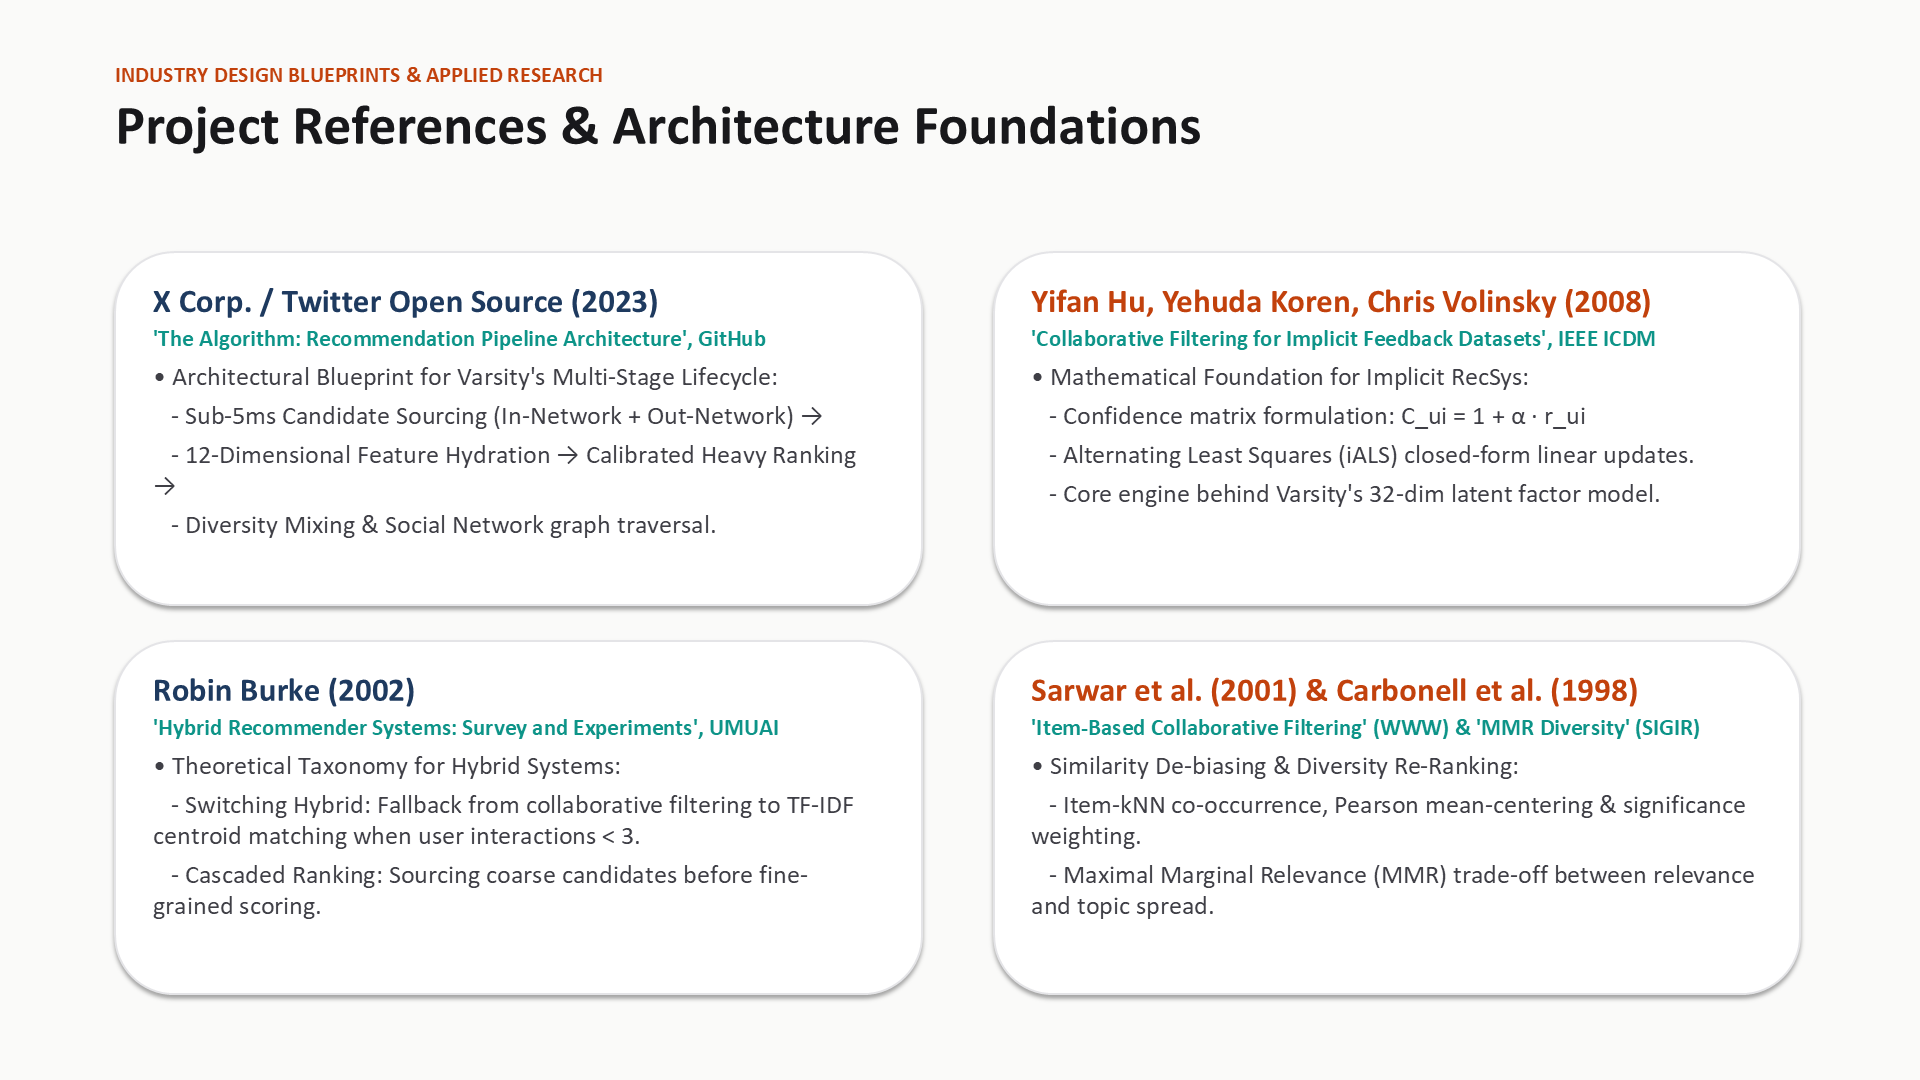
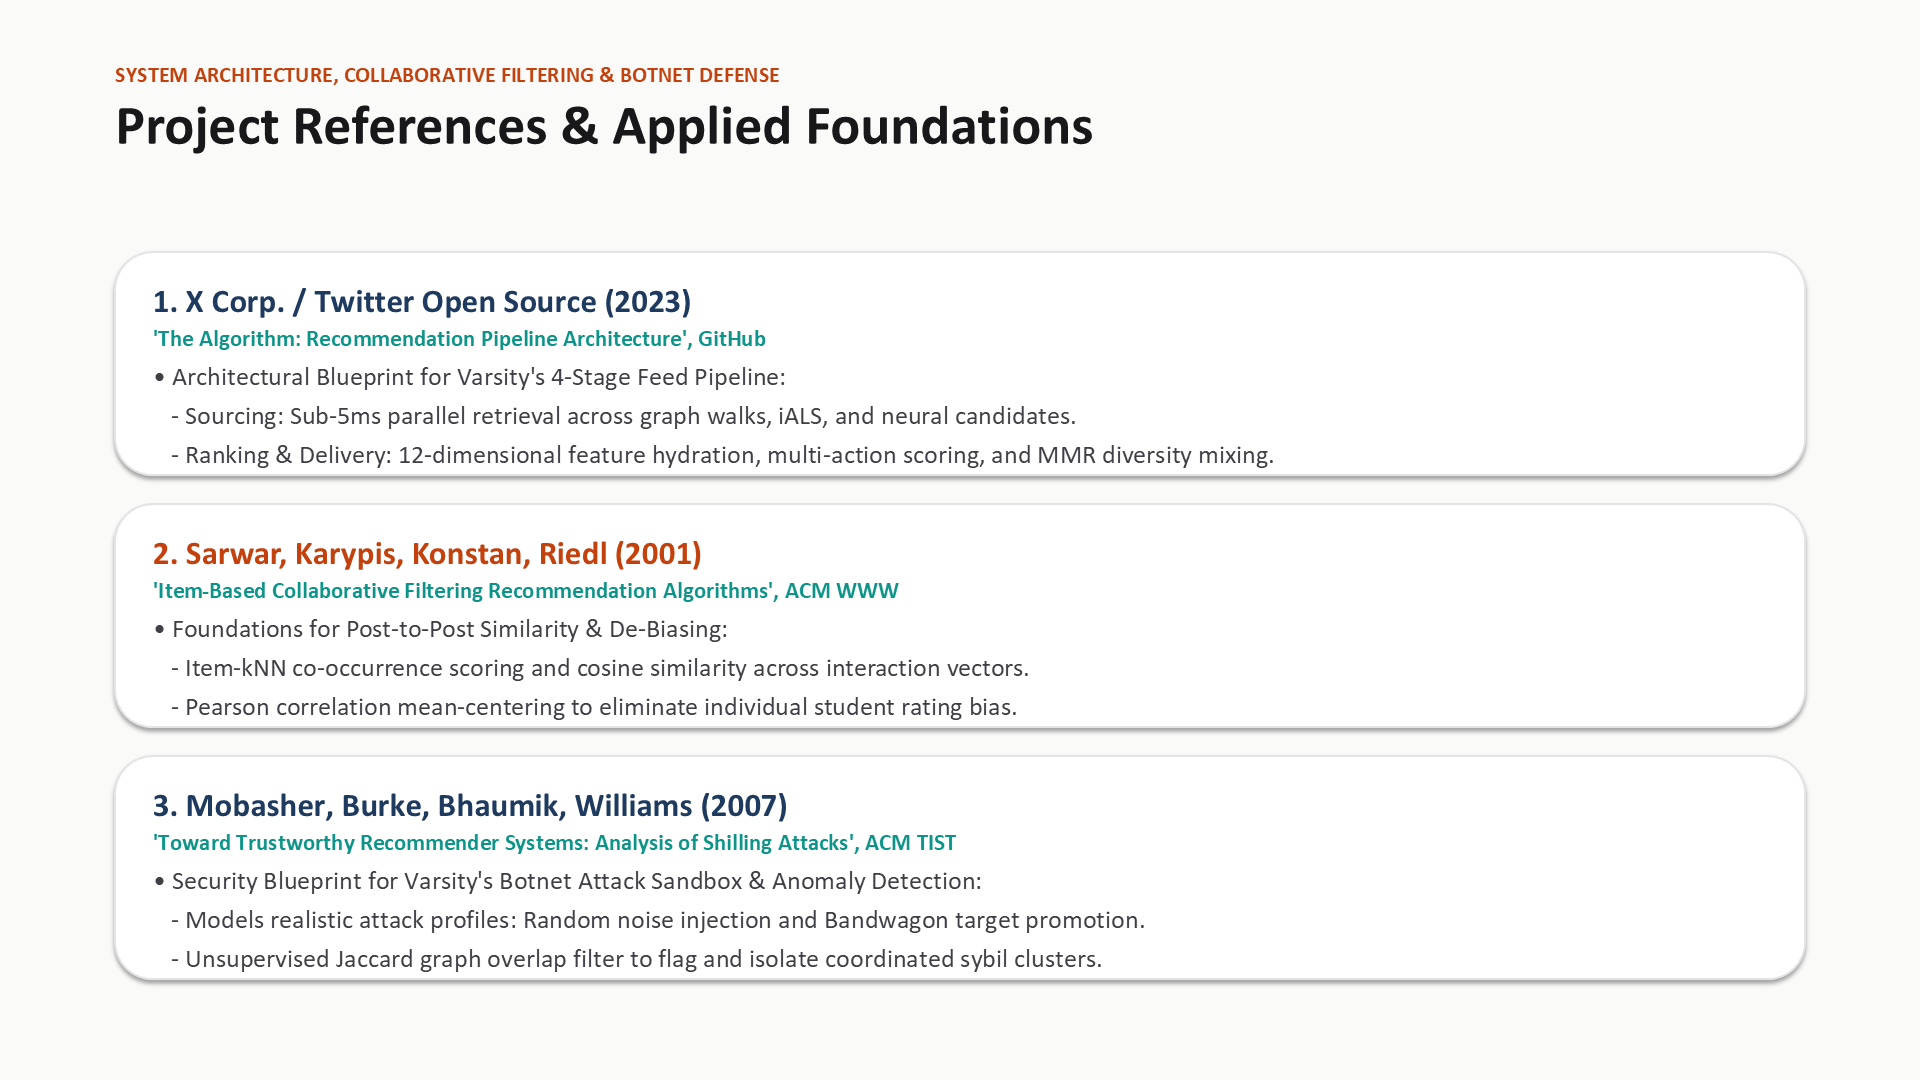
refactor: streamline Slide 10 to strictly feature the 3 applied Column 2 references

diff --git a/build_presentation_revamped.py b/build_presentation_revamped.py
@@ -800,66 +800,49 @@ add_mockup_panel(s9, "benchmark_table.png", Inches(7.0), Inches(1.75), Inches(5.
 
 
 # ==============================================================================
-# SLIDE 10: PROJECT REFERENCES & RESEARCH FOUNDATIONS (Formerly Slide 11)
-# (Kept only project-relevant literature with clean, large cards - NO textbook clutter!)
+# SLIDE 10: PROJECT REFERENCES & RESEARCH FOUNDATIONS
+# (Strictly the 3 applied architecture & security references from Column 2)
 # ==============================================================================
 s10 = prs.slides.add_slide(blank_layout)
 add_slide_background(s10)
-add_header(s10, "Project References & Architecture Foundations", "INDUSTRY DESIGN BLUEPRINTS & APPLIED RESEARCH")
+add_header(s10, "Project References & Applied Foundations", "SYSTEM ARCHITECTURE, COLLABORATIVE FILTERING & BOTNET DEFENSE")
 
-# 4 Clean, Elegant Reference Cards (2x2 Grid with generous spacing and large text)
-grid_w = Inches(5.6)
-grid_h = Inches(2.45)
-row1_y = Inches(1.75)
-row2_y = Inches(4.45)
-col1_x = Inches(0.8)
-col2_x = Inches(6.9)
+card_w = Inches(11.733)
+card_h = Inches(1.55)
+col_x = Inches(0.8)
 
 # Ref 1: X Corp. Algorithm
-add_card(s10, col1_x, row1_y, grid_w, grid_h,
-         title="X Corp. / Twitter Open Source (2023)",
+add_card(s10, col_x, Inches(1.75), card_w, card_h,
+         title="1. X Corp. / Twitter Open Source (2023)",
          subtitle="'The Algorithm: Recommendation Pipeline Architecture', GitHub",
          body_points=[
-             "• Architectural Blueprint for Varsity's Multi-Stage Lifecycle:",
-             "   - Sub-5ms Candidate Sourcing (In-Network + Out-Network) →",
-             "   - 12-Dimensional Feature Hydration → Calibrated Heavy Ranking →",
-             "   - Diversity Mixing & Social Network graph traversal."
+             "• Architectural Blueprint for Varsity's 4-Stage Feed Pipeline:",
+             "   - Sourcing: Sub-5ms parallel retrieval across graph walks, iALS, and neural candidates.",
+             "   - Ranking & Delivery: 12-dimensional feature hydration, multi-action scoring, and MMR diversity mixing."
          ],
          title_size=16.5, body_size=13, title_color=ACCENT_PRIMARY)
 
-# Ref 2: Hu, Koren, Volinsky (iALS)
-add_card(s10, col2_x, row1_y, grid_w, grid_h,
-         title="Yifan Hu, Yehuda Koren, Chris Volinsky (2008)",
-         subtitle="'Collaborative Filtering for Implicit Feedback Datasets', IEEE ICDM",
+# Ref 2: Sarwar et al. (Item-Based CF)
+add_card(s10, col_x, Inches(3.50), card_w, card_h,
+         title="2. Sarwar, Karypis, Konstan, Riedl (2001)",
+         subtitle="'Item-Based Collaborative Filtering Recommendation Algorithms', ACM WWW",
          body_points=[
-             "• Mathematical Foundation for Implicit RecSys:",
-             "   - Confidence matrix formulation: C_ui = 1 + α · r_ui",
-             "   - Alternating Least Squares (iALS) closed-form linear updates.",
-             "   - Core engine behind Varsity's 32-dim latent factor model."
+             "• Foundations for Post-to-Post Similarity & De-Biasing:",
+             "   - Item-kNN co-occurrence scoring and cosine similarity across interaction vectors.",
+             "   - Pearson correlation mean-centering to eliminate individual student rating bias."
          ],
          title_size=16.5, body_size=13, title_color=ACCENT_WARM)
 
-# Ref 3: Robin Burke (Hybrid Systems)
-add_card(s10, col1_x, row2_y, grid_w, grid_h,
-         title="Robin Burke (2002)",
-         subtitle="'Hybrid Recommender Systems: Survey and Experiments', UMUAI",
+# Ref 3: Mobasher et al. (Shilling Attacks)
+add_card(s10, col_x, Inches(5.25), card_w, card_h,
+         title="3. Mobasher, Burke, Bhaumik, Williams (2007)",
+         subtitle="'Toward Trustworthy Recommender Systems: Analysis of Shilling Attacks', ACM TIST",
          body_points=[
-             "• Theoretical Taxonomy for Hybrid Systems:",
-             "   - Switching Hybrid: Fallback from collaborative filtering to TF-IDF centroid matching when user interactions < 3.",
-             "   - Cascaded Ranking: Sourcing coarse candidates before fine-grained scoring."
+             "• Security Blueprint for Varsity's Botnet Attack Sandbox & Anomaly Detection:",
+             "   - Models realistic attack profiles: Random noise injection and Bandwagon target promotion.",
+             "   - Unsupervised Jaccard graph overlap filter to flag and isolate coordinated sybil clusters."
          ],
          title_size=16.5, body_size=13, title_color=ACCENT_PRIMARY)
-
-# Ref 4: Sarwar et al. (Item-Based CF) & Carbonell (MMR)
-add_card(s10, col2_x, row2_y, grid_w, grid_h,
-         title="Sarwar et al. (2001) & Carbonell et al. (1998)",
-         subtitle="'Item-Based Collaborative Filtering' (WWW) & 'MMR Diversity' (SIGIR)",
-         body_points=[
-             "• Similarity De-biasing & Diversity Re-Ranking:",
-             "   - Item-kNN co-occurrence, Pearson mean-centering & significance weighting.",
-             "   - Maximal Marginal Relevance (MMR) trade-off between relevance and topic spread."
-         ],
-         title_size=16.5, body_size=13, title_color=ACCENT_WARM)
 
 
 # ==============================================================================

diff --git a/PRESENTATION_SCRIPT.md b/PRESENTATION_SCRIPT.md
@@ -176,7 +176,7 @@ This document provides a simple, direct, spoken presentation script accompanying
 
 ---
 
-### Slide 10: Evaluation Benchmark & Conclusion
+### Slide 10: Evaluation Benchmark & References
 **Title**: *The hybrid beats every single model (Offline NDCG@10 comparison across 8 baselines).*
 
 #### 🎙 Spoken Script
@@ -187,11 +187,14 @@ This document provides a simple, direct, spoken presentation script accompanying
 > - *Single models like pure User-kNN or pure iALS perform reasonably on warm users, but collapse whenever cold-start users appear.*
 > - *Our **Varsity Multi-Stage Hybrid** achieves the highest overall ranking accuracy (**NDCG@10 = 0.0186**), while delivering **0.9599 Intra-List Diversity** and **10% Catalog Coverage** across the entire campus.*
 >
-> *In summary: by taking the principles from our Recommender Systems syllabus—implicit confidence matrices, de-biased similarity metrics, switching cold-start hybrids, and MMR re-ranking—and arranging them in a 4-stage cascaded pipeline, Varsity demonstrates how modern, industrial-grade social feeds actually work.*
+> *For our references, we didn't use generic textbook theory. We based the system directly on three applied industry blueprints:*
+> 1. *First, **Twitter's 2023 Open-Source Algorithm** on GitHub, which gave us the blueprint for our 4-stage funnel and sub-50ms latency.*
+> 2. *Second, **Sarwar et al. (2001)** from ACM WWW, which provides the foundation for our Item-kNN similarity and Pearson rating de-biasing.*
+> 3. *Third, **Mobasher et al. (2007)** from ACM TIST, which gave us the math for our Bandwagon attack simulation and Jaccard botnet defense.*
 >
 > *Thank you! I’m happy to take any questions."*
 
-* **RecSys Concept**: Offline Evaluation; Temporal Split vs. Random Split (preventing data leakage); NDCG@10, Precision@10, Recall@10, Catalog Coverage, and ILD.
+* **RecSys Concept**: Offline Evaluation; Temporal Split vs. Random Split; Applied Industry Blueprints.
 * **Our Project Context**: The evaluation suite runs automatically in our backend and is viewable live inside the prototype's settings drawer.
 
 ---
